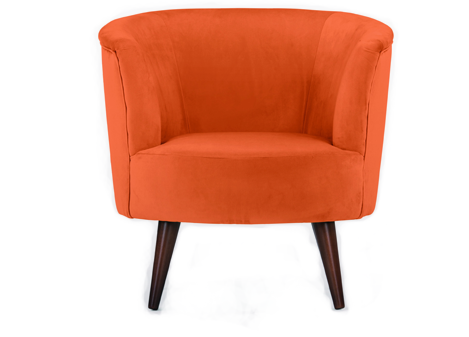
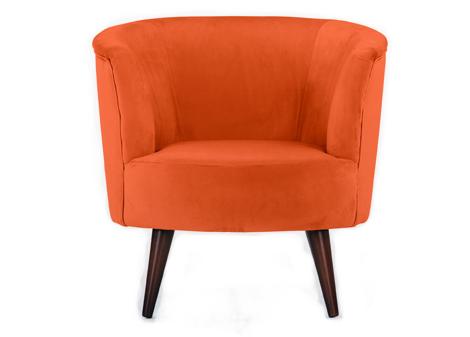
Start Project

Changed region(s): [[0.1791, 0.0, 0.8657, 0.9792], [0.6567, 0.2077, 0.6866, 0.2671]]

diff --git a/index.html b/index.html
@@ -16,7 +16,7 @@
         <link rel="styleseet" href="css/normalize.css">
         <link rel="stylesheet" href="css/style.css">
     </head>
-    
+
     <body>
         <!-- header -->
         <header>
@@ -44,24 +44,24 @@
             <!-- silder -->
             <section class="slider__wrap container clearfix">
                 <div class="slider__gallery">
-                    <div class="arrow--left"></div>
+                    <div class="js--btn arrow--left"></div>
                     <ul class="gallery--picture">
                         <li class="picture--item">
                             <img src="images/black_chair.png" alt="">
                         </li>
-                        <!-- <li class="picture--item">
+                        <li class="picture--item">
                             <img src="images/orange_chair.png" alt="">
                         </li>
                         <li class="picture--item">
-                            <img src="images/red_chair.png" alt="">
-                        </li> -->
+                            <img src="images/red_chair_slide.png" alt="">
+                        </li>
                     </ul>
                     <div class="slider--text">
                         <h2>Sit <span class="txtColour1">On</span> Our <span class="txtColour1">Chair</span></h2>
                         <p>Lorem ipsum dolor sit amet enim. Etiam ullamcorper. Suspendisse a pellentesque dui, non felis. Maecenas malesuada elit lectus felis, malesuada ultricies. Curabitur et ligula. Ut molestie a, ultricies porta urna.</p>
                         <a href="#">Zobacz więcej</a>
                     </div>
-                    <div class="arrow--right"></div>
+                    <div class="js--btn arrow--right"></div>
                 </div>
             </section>
             <!-- end of slider -->

diff --git a/js/app.js b/js/app.js
@@ -21,4 +21,43 @@ document.addEventListener('DOMContentLoaded', function() {
 /* ----- SLIDER GALLERY ----- */
 /* ---------------------------------------------------- */
 
+	const sliderList = document.querySelectorAll('.gallery--picture li');
+	const previousBtn = document.querySelector('.js--btn.arrow--left');
+	const nextBtn = document.querySelector('.js--btn.arrow--right');
+	let counter = 0;
+
+	// Previous Button
+	function previousPicture(ev) {
+		ev.preventDefault();
+
+		sliderList[counter].classList.remove('visible');
+
+		if (counter === 0) {
+			counter = sliderList.length - 1;
+		} else {
+			counter--;
+		}
+
+		sliderList[counter].classList.add('visible');
+	}
+
+	// Next Button
+	function nextPicture(ev) {
+		ev.preventDefault();
+
+		sliderList[counter].classList.remove('visible');
+
+		if (counter === sliderList.length - 1) {
+			counter = 0;
+		} else {
+			counter++;
+		}
+
+		sliderList[counter].classList.add('visible');
+	}
+
+	sliderList[counter].classList.add('visible');
+	previousBtn.addEventListener('click', previousPicture);
+	nextBtn.addEventListener('click', nextPicture);
+
 });

diff --git a/css/style.css b/css/style.css
@@ -145,6 +145,18 @@ nav {
   flex-basis: 50%;
 }
 
+/*.gallery--picture {
+  display: flex;
+}*/
+
+.slider__gallery li {
+    display: none;
+}
+
+.slider__gallery .visible {
+    display: block;
+}
+
 .slider--text {
   padding-right: 113px;
   text-align: center;
@@ -191,13 +203,15 @@ nav {
   border-left: 4px solid #24baa0;
   border-bottom: 4px solid #24baa0;
   left: 9px;
+  cursor: pointer;
 }
 
 /* --- Ustawienie odpowiednich borderów aby wyglądało jak strzałka i ustawienie w odpowiednim miejscu --- */
 .slider__gallery .arrow--right {
   border-right: 4px solid #24baa0;
   border-top: 4px solid #24baa0;
-  right: 9px;  
+  right: 9px;
+  cursor: pointer;
 }
 
 /* ----- END OF SLIDER ----- */
